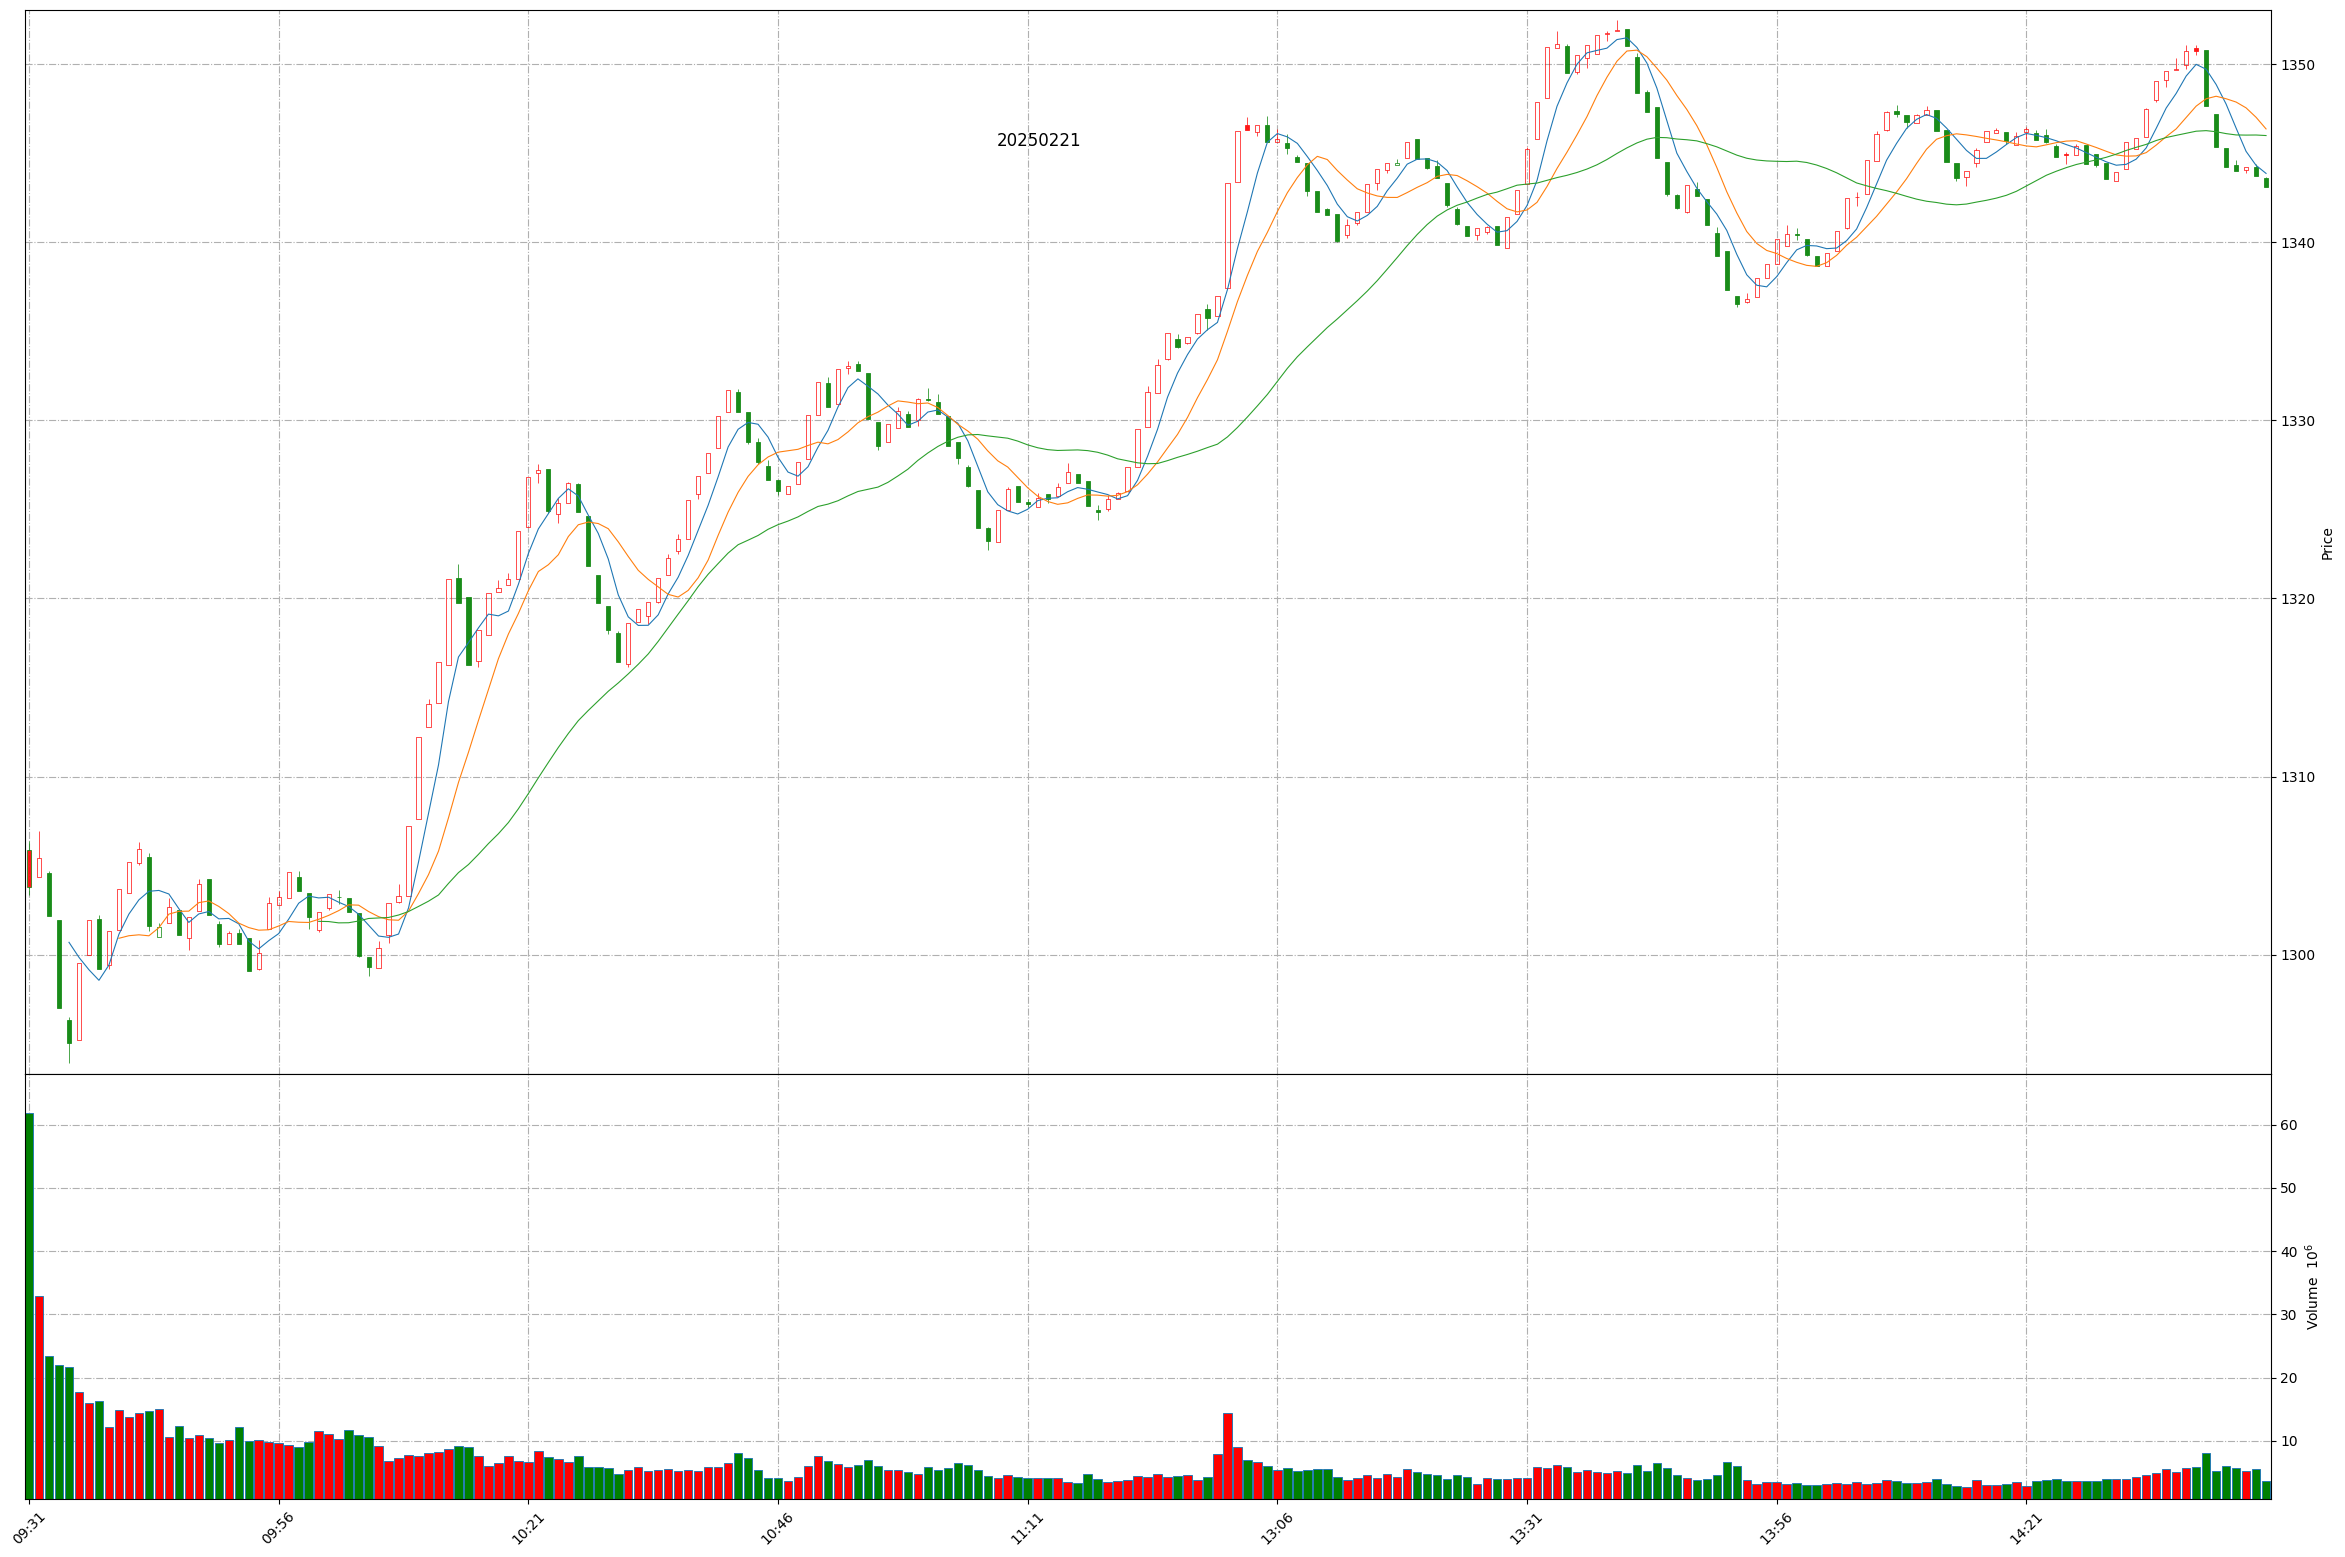
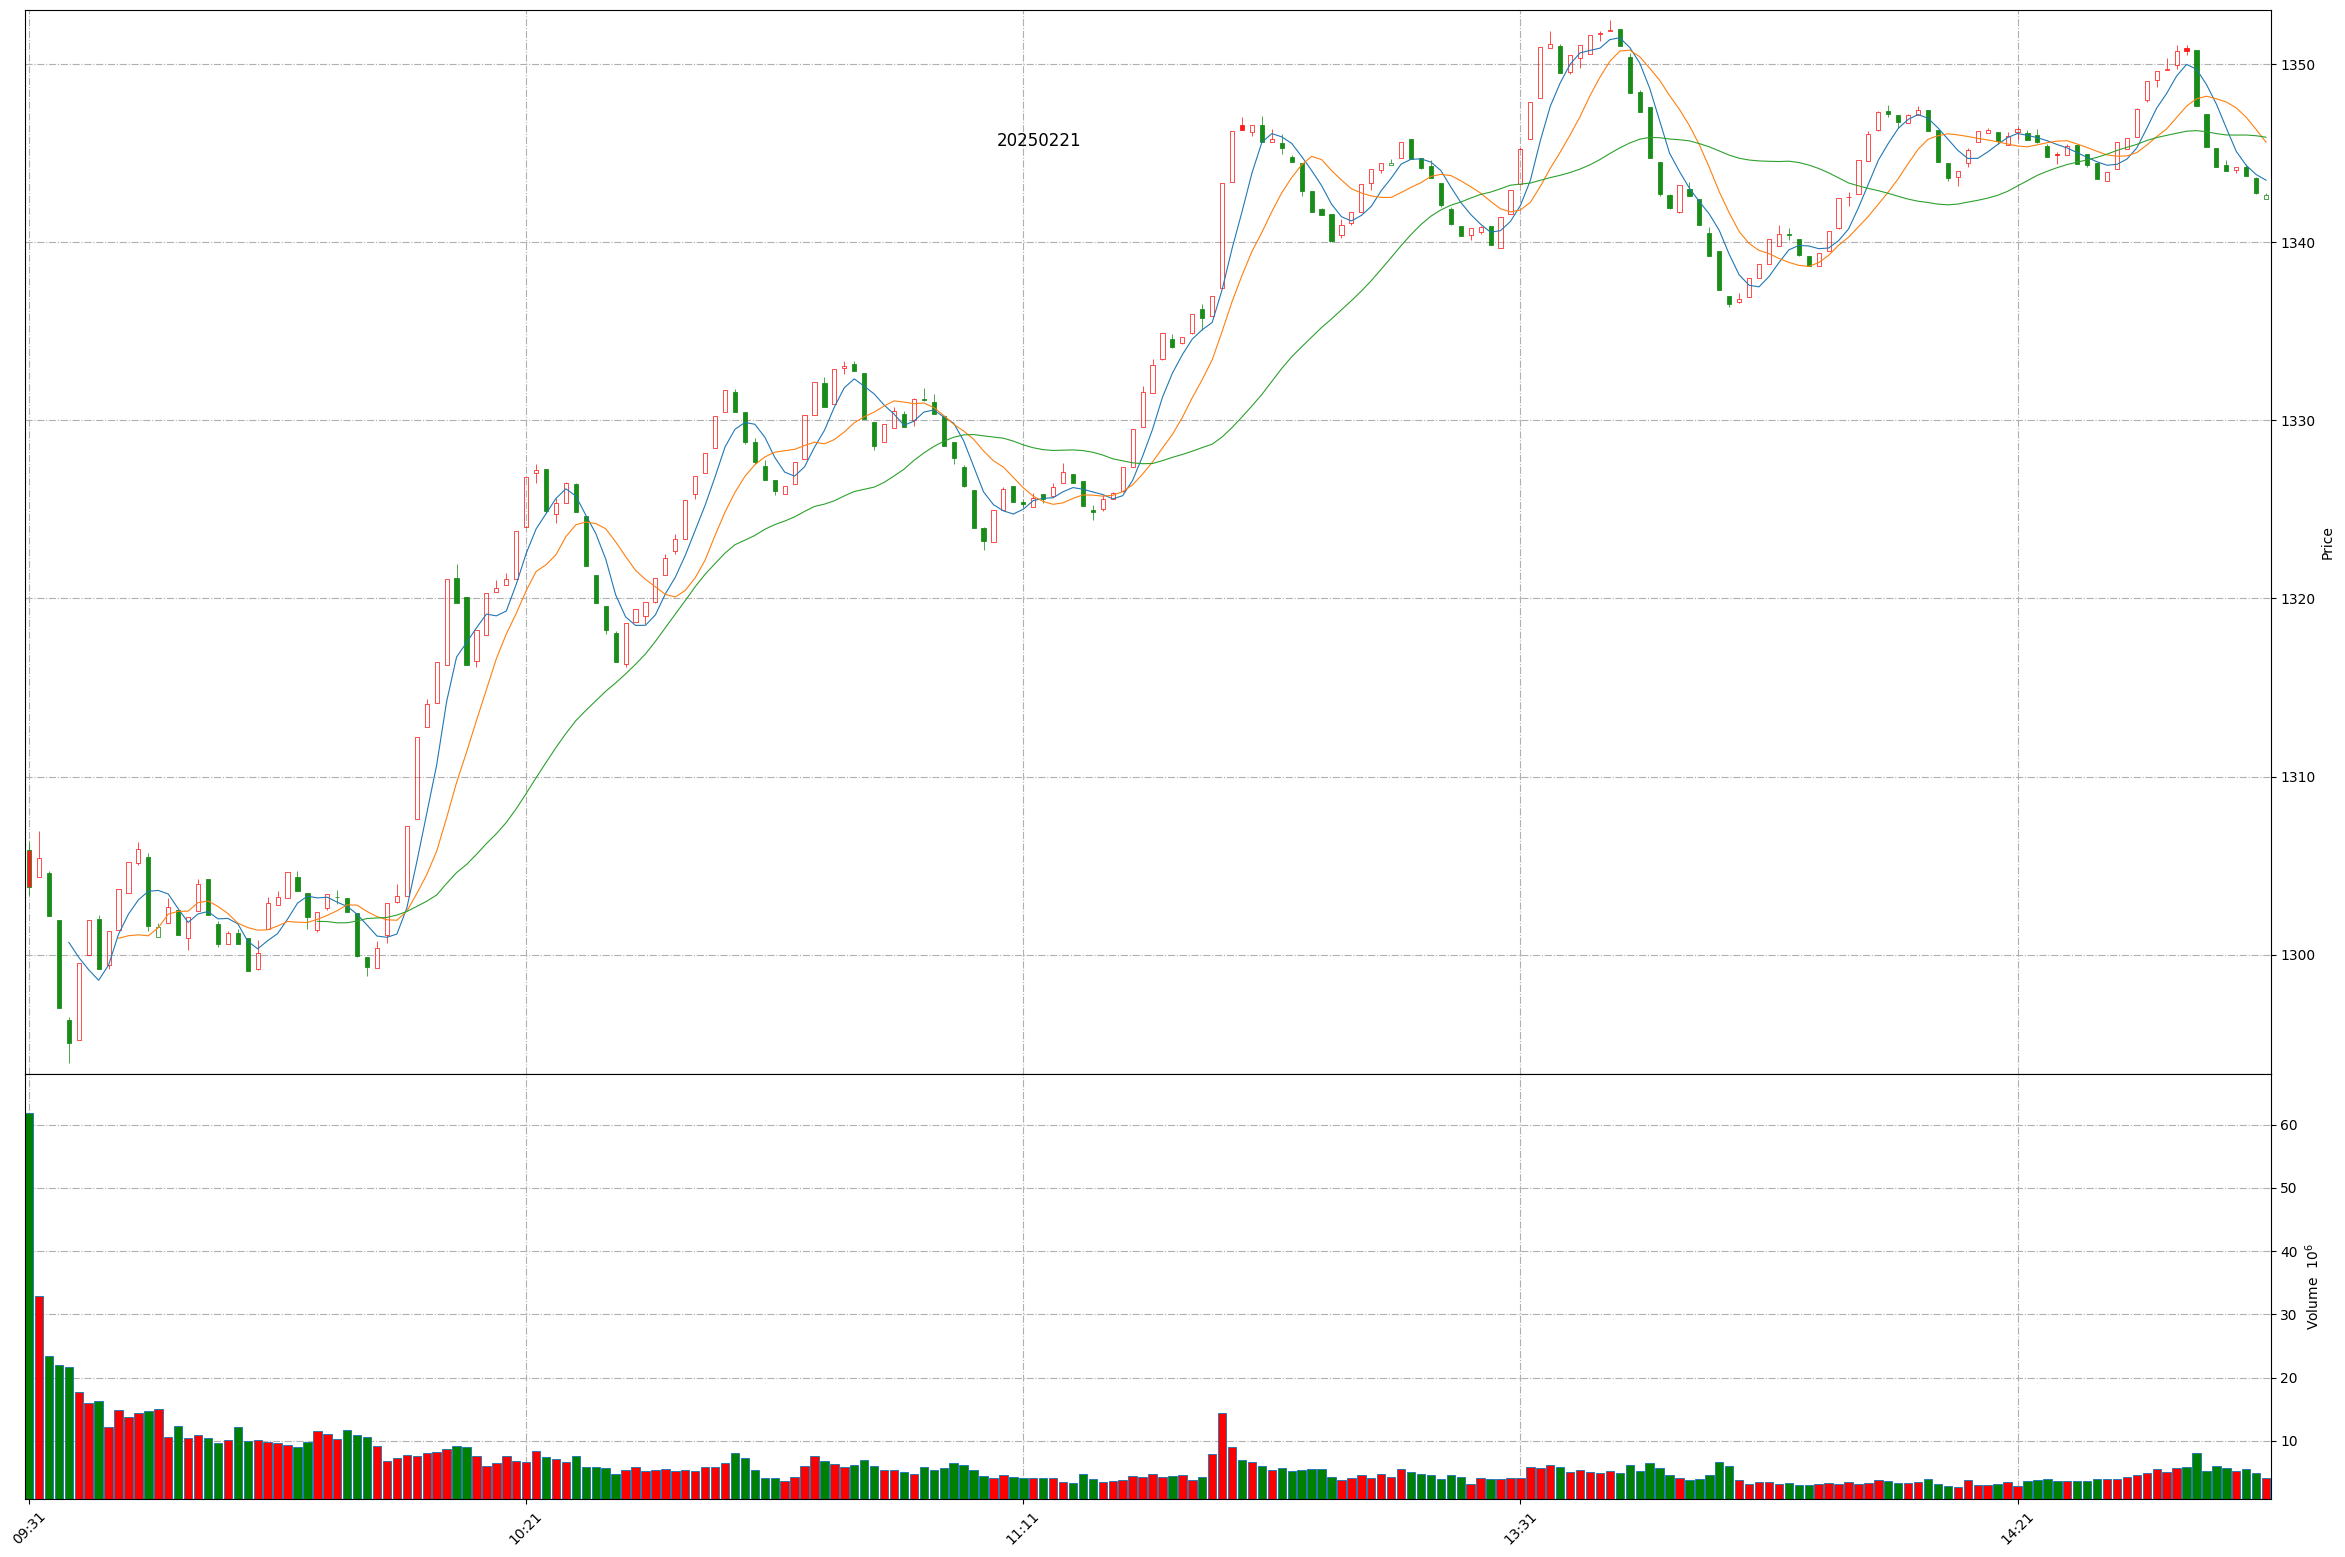
Github action update at 2025-02-21 14:45:50.

diff --git a/README.md b/README.md
@@ -1,11 +1,11 @@
 
 # Daily-A-share-market-quotes 每日 A 股指数（5min 更新）- 20250221
 
-### 上证指数 20250221 14:44
+### 上证指数 20250221 14:45
 ![](./fig/2025/2/20250221-sh000001.png)
 
-### 深证成指 20250221 14:44
+### 深证成指 20250221 14:45
 ![](./fig/2025/2/20250221-sz399001.png)
 
-### 北证50 20250221 14:44
+### 北证50 20250221 14:45
 ![](./fig/2025/2/20250221-bj899050.png)
